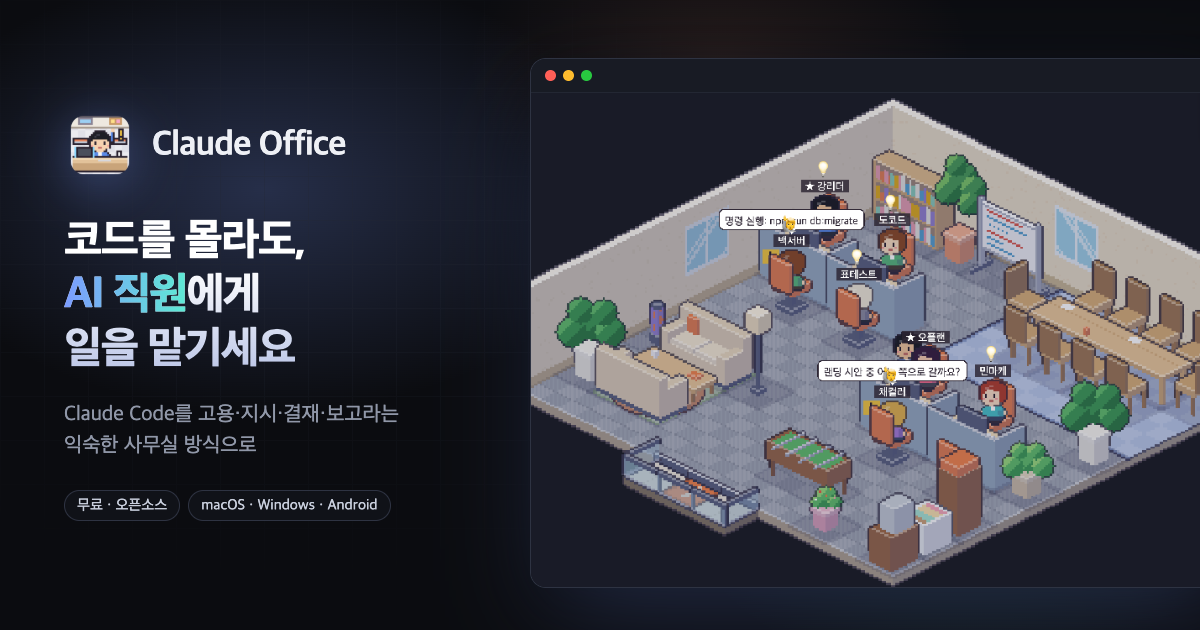
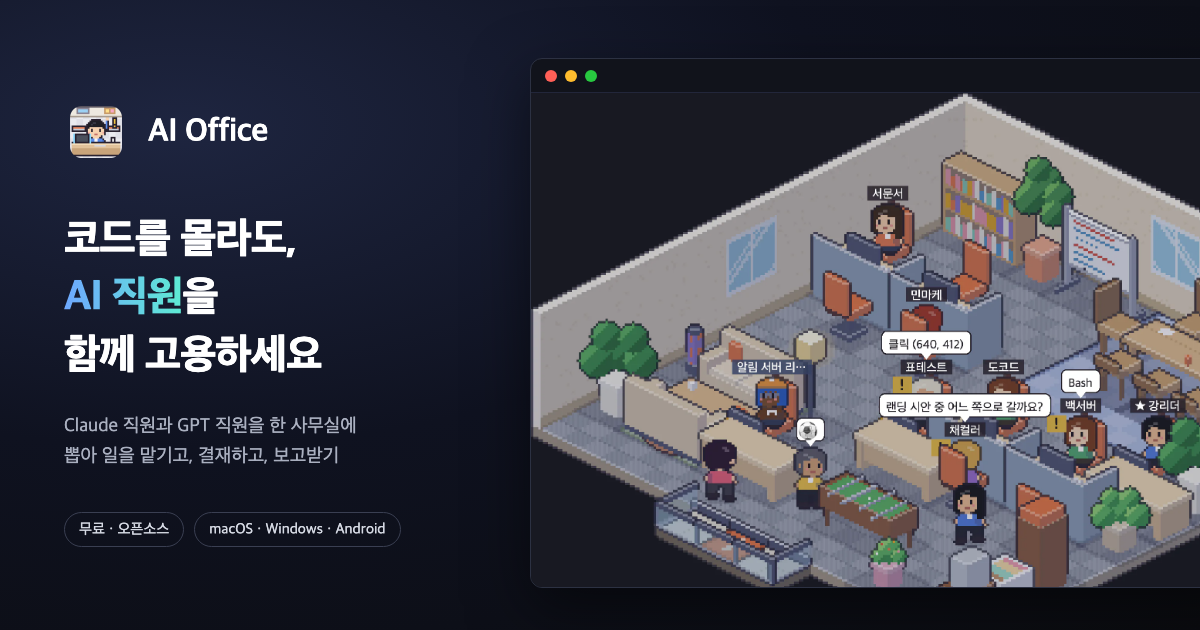
소개 사이트 링크 미리보기 이미지: Claude Office → AI Office, GPT 직원 문구로 교체 (캐시 무효화 ?v=0.14.0)

diff --git a/site/index.html b/site/index.html
@@ -31,7 +31,7 @@ var DOWNLOADS = {
 <meta property="og:url" content="https://engchoon.github.io/ai-office/">
 <meta property="og:title" content="AI Office — Claude와 GPT 직원을 함께 고용하는 AI 사무실">
 <meta property="og:description" content="Claude와 GPT 직원을 함께 뽑아 일을 맡기고, 결재하고, 보고받는 무료 오픈소스 데스크톱 앱. 명령어 창도, 어려운 설정도 필요 없습니다.">
-<meta property="og:image" content="https://engchoon.github.io/ai-office/assets/og.png">
+<meta property="og:image" content="https://engchoon.github.io/ai-office/assets/og.png?v=0.14.0">
 <meta property="og:image:type" content="image/png">
 <meta property="og:image:width" content="1200">
 <meta property="og:image:height" content="630">
@@ -43,9 +43,9 @@ var DOWNLOADS = {
 <meta name="twitter:card" content="summary_large_image">
 <meta name="twitter:title" content="AI Office — Claude와 GPT 직원을 함께 고용하는 AI 사무실">
 <meta name="twitter:description" content="Claude와 GPT 직원을 함께 뽑아 일을 맡기고, 결재하고, 보고받는 무료 오픈소스 데스크톱 앱. 명령어 창도, 어려운 설정도 필요 없습니다.">
-<meta name="twitter:image" content="https://engchoon.github.io/ai-office/assets/og.png">
+<meta name="twitter:image" content="https://engchoon.github.io/ai-office/assets/og.png?v=0.14.0">
 <script type="application/ld+json">
-{"@context":"https://schema.org","@type":"SoftwareApplication","name":"AI Office","url":"https://engchoon.github.io/ai-office/","image":"https://engchoon.github.io/ai-office/assets/og.png","applicationCategory":"BusinessApplication","operatingSystem":"macOS, Windows, Android","softwareVersion":"0.14.0","license":"https://opensource.org/licenses/MIT","downloadUrl":"https://github.com/EngChooN/ai-office/releases/latest","offers":{"@type":"Offer","price":"0","priceCurrency":"USD"},"inLanguage":["ko","en","ja","zh"],"description":"Claude와 GPT 직원을 함께 뽑아 일을 맡기고, 결재하고, 보고받는 무료 오픈소스 데스크톱 앱."}
+{"@context":"https://schema.org","@type":"SoftwareApplication","name":"AI Office","url":"https://engchoon.github.io/ai-office/","image":"https://engchoon.github.io/ai-office/assets/og.png?v=0.14.0","applicationCategory":"BusinessApplication","operatingSystem":"macOS, Windows, Android","softwareVersion":"0.14.0","license":"https://opensource.org/licenses/MIT","downloadUrl":"https://github.com/EngChooN/ai-office/releases/latest","offers":{"@type":"Offer","price":"0","priceCurrency":"USD"},"inLanguage":["ko","en","ja","zh"],"description":"Claude와 GPT 직원을 함께 뽑아 일을 맡기고, 결재하고, 보고받는 무료 오픈소스 데스크톱 앱."}
 </script>
 <style>
 :root{
